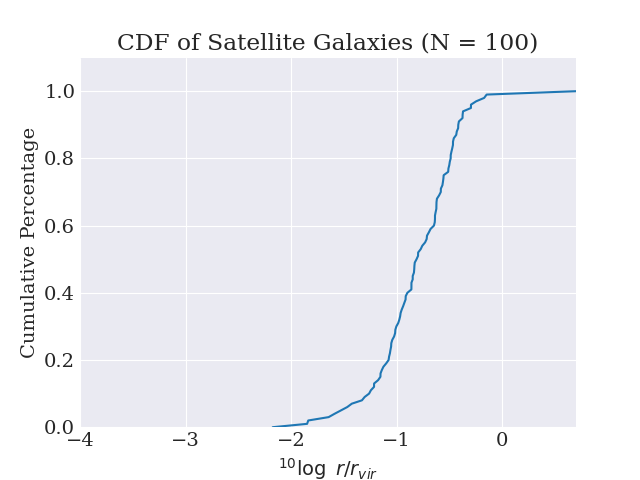
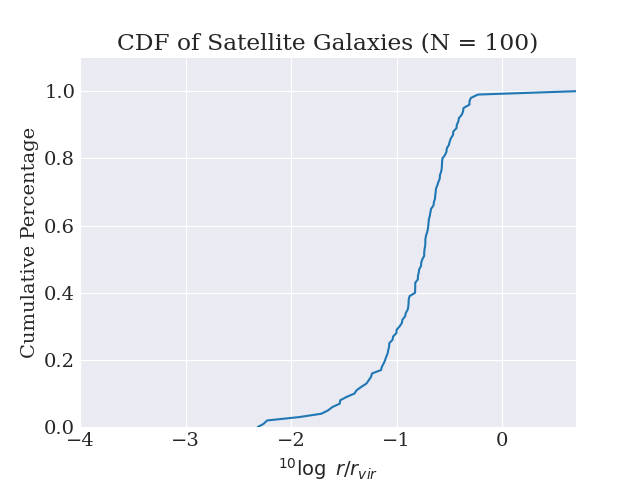
Bugfix Satellite Galaxies

Changed region(s): [[0.4062, 0.25, 0.7188, 0.9062], [0.7188, 0.1875, 0.8438, 0.25]]

diff --git a/handin2/latex/galaxies.tex b/handin2/latex/galaxies.tex
@@ -24,7 +24,7 @@ Looking at equation \ref{eq:nx} we can see that it is independent of angle, and 
 &= 4\pi~\int_0^{x_{max}} x^2 A\left<N_{sat}\right>\left(\frac{x}{b}\right)^{a-3}\exp{\left[-\left(\frac{x}{b}\right)^{c}\right]} dx
 \end{align*}
 
-Here we begin by setting $A = 1$, and using the result of this integral to calibrate $A$ such that equation \ref{eq:vol_int} holds. We can evaluate this integral using a simple one dimensional numerical integrator. We apply a Romberg integrator with order 10 to ensure sufficient accuracy. We have to account for the fact that $n(x)$ is not defined at $x = 0$ because $\left(\frac{x}{b}\right)^{a-3}$ causes a division by zero if $a < 3$, which is the case here. To combat this we set $h_{start} = \frac{a-b}{2}$ instead of $h_{start} = a-b$ to avoid evaluating $n(x=0)$.
+Here we begin by setting $A = 1$, and using the result of this integral to calibrate $A$ such that equation \ref{eq:vol_int} holds. We can evaluate this integral using a simple one dimensional numerical integrator. We apply a Romberg integrator with order 10 to ensure sufficient accuracy. We have to account for the fact that $n(x)$ is not defined at $x = 0$ because $\left(\frac{x}{b}\right)^{a-3}$ causes a division by zero if $a < 3$, which is the case here. To combat this we set $h_{start} = \frac{b-a}{2}$ instead of $h_{start} = b-a$ to avoid evaluating $n(x=0)$.
 
 We find $\int_V n(x)dV = 10.88$, which means we have to set the normalization constant $A = \frac{\left<N_{sat}\right>}{10.88} = \frac{100}{10.88} = 9.19$. We will use this value for $A$ throughout the rest of this work.
 
@@ -45,7 +45,7 @@ We want to sample the 3D distribution of satellites such that they statistically
     \label{fig:pxdx_distribution}
 \end{figure}
 
-In this work we will use rejection sampling to simulate this distribution. The implementation in this work first generates two random numbers generated using \texttt{32-bit multiply with carry}, we call the first number $x$ and shift it to a uniform distribution in log-space in the range $\left[-4, ^{10}\log(5)\right]$ (corresponding to the range $\left[10^{-4}, 5\right]$ in linear space), and the second we call $y$ and shift it to the range $\left[0, 2.68\right]$ where $2.68$ is the maximum of the distribution given in equation \ref{eq:pxdx} as shown in figure \ref{fig:pxdx_distribution}. If the $\left(x_i, y_i\right)$ point falls below the curve described by equation \ref{eq:pxdx} we accept it, otherwise we reject it\footnote{In the code, we have replaced each $x$ in equation \ref{eq:pxdx} with $10^x$ to account for the fact we sample in log-space.}. After each step we use the last generated random number as \texttt{x0} for the next number. We repeat this entire process, until we have $N = 10^4$ samples in total. We note that rejection sampling is far from the most efficient method to sample a distribution such as this because the majority of possible points in our $\left(x, y\right)$ range will be rejected as is evident in figure \ref{fig:pxdx_distribution}. To slightly combat this we have sampled $x$ in log- instead of linear space which means small values ($<1$) are sampled at a higher rate, and the algorithm finds itself in the "interesting" region of the distribution more often. Nevertheless, on average the rejection sampling algorithm still takes $\sim~7$ attempts (14 random numbers generated) untill it finds an accepted point.
+In this work we will use rejection sampling to simulate this distribution. The implementation in this work first generates two random numbers generated using \texttt{32-bit multiply with carry}, we call the first number $x$ and shift it to a uniform distribution in log-space in the range $\left[-4, ^{10}\log(5)\right]$ (corresponding to the range $\left[10^{-4}, 5\right]$ in linear space), and the second we call $y$ and shift it to the range $\left[0, 2.68\right]$ where $2.68$ is the maximum of the distribution given in equation \ref{eq:pxdx} as shown in figure \ref{fig:pxdx_distribution}. If the $\left(x_i, y_i\right)$ point falls below the curve described by equation \ref{eq:pxdx} we accept it, otherwise we reject it\footnote{In the code, we have replaced each $x$ in equation \ref{eq:pxdx} with $10^x$ to account for the fact we sample in log-space.}. After each step we use the last generated random number as \texttt{x0} for the next number. We repeat this entire process, until we have $N = 10^4$ samples in total. We note that rejection sampling is far from the most efficient method to sample a distribution such as this because the majority of possible points in our $\left(x, y\right)$ range will be rejected as is evident in figure \ref{fig:pxdx_distribution}. To slightly combat this we have sampled $x$ in log- instead of linear space which means small values ($<1$) are sampled at a higher rate, and the algorithm finds itself in the "interesting" region of the distribution more often. Nevertheless, on average the rejection sampling algorithm still takes $\sim~6$ attempts (12 random numbers generated) untill it finds an accepted point.
 
 We plot the results from our sampling algorithm as a histogram with 20 equally spaced bins in log-space in figure \ref{fig:gal_pdf}. We divided the height of each bin by $10^3$ to account for the difference between $\left<N_{sat}\right>$ and $N$. We can see in the figure that the analytical distribution, and our sampled distribution match almost perfectly everywhere except the edges. These edges are missing from this plot because the sampler is often unable to sample points in these regions due to the large value for $p(x)dx$ there. 
 

diff --git a/handin2/satellite_galaxies.py b/handin2/satellite_galaxies.py
@@ -3,7 +3,7 @@ import matplotlib.pyplot as plt
 from ancillary import romberg_integration, rejection_sampling, ridders_method, merge_sort
 from rng import rng_from_mwc
 from plotting import hist, set_styles
-import time
+
 
 def n(x, A, Nsat, a, b, c):
     """Density profile of the spherical distribution of 
@@ -17,7 +17,6 @@ def analytical_derivative(x, A, Nsat, a, b, c):
     return -A*Nsat*b*b*b*((x/b)**a)*(c*((x/b)**c) - a + 3.) * np.exp(-(x/b)**c) / (x*x*x*x)
 
 def full_run():
-    t0 = time.time()
     # Parameters given in the hand-in
     a = 2.4
     b = 0.25
@@ -31,9 +30,9 @@ def full_run():
     nbins = 20
     num_random_sample = 100 
     
-    results_txt = "This file contains all results to be extracted for the report\n"
-    #######
+    results_txt = "This file contains all results from question 1\n"
     set_styles()
+    #######
 
     # 1a. Integrate the 3D spherical integral to find A
     to_integrate = lambda x: 4*np.pi*x*x* n(x, A, Nsat, a, b, c)
@@ -45,18 +44,18 @@ def full_run():
 
 
     # 1b. Simulate the distribution
+    # Set Nsat = 1 because we divide n(x) by Nsat
     rng = rng_from_mwc
-    log_distribution = lambda x: 4*np.pi*10**(2*x)*n(10**x, A, Nsat, a, b, c)/Nsat #p(x)dx = N(x)dx/Nsat
-    
+    log_distribution = lambda x: 4*np.pi*10**(2*x)*n(10**x, A, 1, a, b, c)
+
     # Find maximum of this distribution
     x = np.linspace(sample_min_x, x_max, 1000)
+    nx = log_distribution(np.log10(x))
+    log_dist_max = np.max(nx)
     
-    
-    # Plot this distribution in linear space
-    y = log_distribution(np.log10(x))
-    log_dist_max = np.max(y)
+    # Plot this distribution in linear space for investigation purposes
     results_txt += f"{log_dist_max:.2f}\n"
-    plt.plot(x, y, label=r'$N(x)dx/\left<N_{sat}\right>$')
+    plt.plot(x, nx, label=r'$N(x)dx/\left<N_{sat}\right>$')
     plt.axhline(y=0, c='black', ls='--')
     plt.axhline(y=log_dist_max, c='red', label=f'Distribution Max: {log_dist_max:.2f}')
     plt.xlim(x_min, x_max)
@@ -67,31 +66,26 @@ def full_run():
     plt.savefig('results/pxdx.png', bbox_inches='tight')
     plt.clf()
 
-    shift_x = lambda x: x * (np.log(x_max) + 4) - 4
+    # Create shift functions to transform U(0,1) to proper boundaries
+    shift_x = lambda x: x * (np.log10(x_max) - np.log10(sample_min_x)) + np.log10(sample_min_x)
     shift_y = lambda y: y * log_dist_max
 
-    print('Sampling Distribution')
+    print('Sampling Distribution..')
     sampled_points = rejection_sampling(log_distribution, rng, N_sample, shift_x=shift_x, shift_y=shift_y)
-    sampled_points = 10**sampled_points
+    sampled_points = 10**sampled_points # Sampled in log space, go back to linear
 
-    # Plotting
+    # Plotting of log distribution + sample
     bin_heights, bin_edges = hist(sampled_points, sample_min_x, x_max, nbins, log=True)
-    
     bin_centers = np.zeros(len(bin_edges)-1)
     for i in range(bin_centers.shape[0]):
         bin_centers[i] = bin_edges[i] + 0.5*(bin_edges[i+1] - bin_edges[i])
 
-    x = np.linspace(sample_min_x, x_max, 1000)
-    y = log_distribution(np.log10(x))
-
     plt.step(np.log10(bin_centers), np.log10(bin_heights/1000), label='Sampled Distribution')         
-    plt.plot(np.log10(x), np.log10(y), label='Analytical Function')
+    plt.plot(np.log10(x), np.log10(nx), label='Analytical Function')
     plt.xlabel(r'$^{10}\log~r/r_{vir}$')
     plt.ylabel(r'$^{10}\log~p(x)dx$')
     plt.title('Sampled Distribution Histogram')
-
     plt.ylim(bottom=-5)
-
     plt.legend()
     plt.savefig('results/satellite_galaxies_pdf.png', bbox_inches='tight')
     plt.clf()
@@ -109,11 +103,9 @@ def full_run():
     random_sample_ordered_idxs = merge_sort(key=random_sample)
     random_sample_ordered = random_sample[random_sample_ordered_idxs]
 
-    # 'Cumulative Distribtuion Function'
+    # Make the 'Cumulative Distribtuion Function'
     y = np.arange(num_random_sample)/num_random_sample
-
-    # Add a final point to complete the CDF to (xmax, 1)
-    y = np.append(y, 1)
+    y = np.append(y, 1) # Add a final point to complete the CDF to (xmax, 1)
     random_sample_ordered = np.append(random_sample_ordered, x_max)
 
     plt.plot(np.log10(random_sample_ordered), y)
@@ -137,9 +129,7 @@ def full_run():
     
     with open('results/satellite_galaxies_results.txt', 'w') as file:
         file.write(results_txt)
-
-    print(f'total time with rejection sampling: {time.time()-t0}s')
-    
+   
     
 
 def plot_distribution(A):

diff --git a/handin2/ancillary.py b/handin2/ancillary.py
@@ -10,7 +10,12 @@ import numpy as np
 
 # INTEGRATION
 def romberg_integration(func, a, b, order, open_formula=False):
-    """Integrate a function using Romberg Integration"""
+    """Integrate a function, func, using Romberg Integration over the interval [a,b]
+    This function usually sets h_start = b-a to sample from the widest possible interval.
+    If open_formula is set to True, it assumes the function is undefined at either a or b
+    and h_start is set to (b-a)/2.
+    This function returns the best estimate for the integrand
+    """
     # initiate all parameters
     r_array = np.zeros(order)
     h = b - a
@@ -23,7 +28,6 @@ def romberg_integration(func, a, b, order, open_formula=False):
     else:
         r_array[0] = 0.5*h*(func(b) - func(a))
         start_point = 1
-
     
     # First iterations to fill out estimates of order m
     for i in range(start_point, order):
@@ -55,8 +59,13 @@ def rejection_sampling(func, rng, N,
                        shift_x=lambda x: x,
                        shift_y=lambda x: x,
                        x0 = 4891653):
-    """Sample a distribution using rejection sampling
-    Expand documentation!"""
+    """Sample a 1D distribution using rejection sampling. This function generates
+    two random numbers using the provided rng. It then assigns the first value as
+    'x' and shifts it using the shift_x function, and assigns the second value as
+    'y' and shifts it using the shift_y function. If y<func(x) the point is accepted
+    Repeat this until we have N points, and return these
+    x0 is used as a starting seed for the rng
+    """
     
     sampled_points = np.zeros(N)
     num_tries = 0 # For performance testing
@@ -70,6 +79,7 @@ def rejection_sampling(func, rng, N,
             x = shift_x(numbers[0])
             y = shift_y(numbers[1])
             num_tries += 1
+            print(x, y, func(x))
             if y < func(x):
                 sampled_points[i] = x
                 not_sampled = False
@@ -84,24 +94,16 @@ def central_difference(func, x, h):
     return (func(x+h) - func(x-h))/(2.*h)   
 
 def ridders_equation(D1, D2, j, dec_factor):
+    """Ridders Equation used to combine two estimates at different h"""
     j_factor = dec_factor**(2.*(j+1.))
     return (j_factor * D2 - D1)/(j_factor - 1)
     
 
 def ridders_method(func, x_ar, h_start, dec_factor, target_acc, approx_array_length=15):
     """Compute the derivative of a function at a point, or points x using Ridder's Method
-
-    Inputs:
-        func:
-        x_ar
-        h_start
-        dec_factor
-        target_acc
-        approx_array_length
-
-    Outputs:
-        
-
+    The function iteratively adds in more estimates at a lower h until it achieves the provided
+    target accuracy. It then returns the best estimate, and the uncertainty on this, which is 
+    defined as the difference between the current and previous best estimates
     """
     derivative_array = np.zeros_like(x_ar, dtype=np.float64)
     unc_array = np.zeros_like(x_ar, dtype=np.float64)
@@ -250,10 +252,6 @@ def false_position(func, bracket, target_x_acc=1e-3, target_y_acc=1e-8, max_iter
     """Given a function f(x) and a bracket [a,b], this function returns
     a value c within that interval for which f(c) ~= 0 using the false
     position method. Guaranteed to converge, slow but faster than bisection.
-
-    Inputs:
-
-    Outputs:
     """
     a, b = bracket
     fa, fb = func(a), func(b) 
@@ -283,10 +281,8 @@ def false_position(func, bracket, target_x_acc=1e-3, target_y_acc=1e-8, max_iter
             # Then the new interval becomes c, b
             a, fa = c, fc
         else:
-            print("Warning! Bracket seems to have diverged")
-            return c, i+1
-
-        
+            print("Warning! Bracket might have diverged")
+            return c, i+1      
 
     print("Maximum number of iterations reached")
     return c, i

diff --git a/handin2/hii_regions.py b/handin2/hii_regions.py
@@ -67,7 +67,7 @@ def full_run():
         n = 10**(n_power)
         equilibrium2_func = lambda x: equilibrium2(x, Z, Tc, psi, n, A, xi, k, aB) 
         t0 = time.time()
-        root, num_iter = rootfinder(equilibrium2_func, [Tmin, Tmax2], target_y_acc=1e-10, target_x_acc=1e-3)
+        root, num_iter = rootfinder(equilibrium2_func, [Tmin, Tmax2], target_y_acc=1e-10, target_x_acc=1e-3 )
         t1 = time.time()
         y_root = equilibrium2_func(root)
         #print(f'n={n:.0E}cm^-3\nRoot Found at T={root:.2E} K ({y_root:.2E}).\nRoot Finding Algorithm Took {num_iter} Iterations over {t1-t0:.2E} s')
